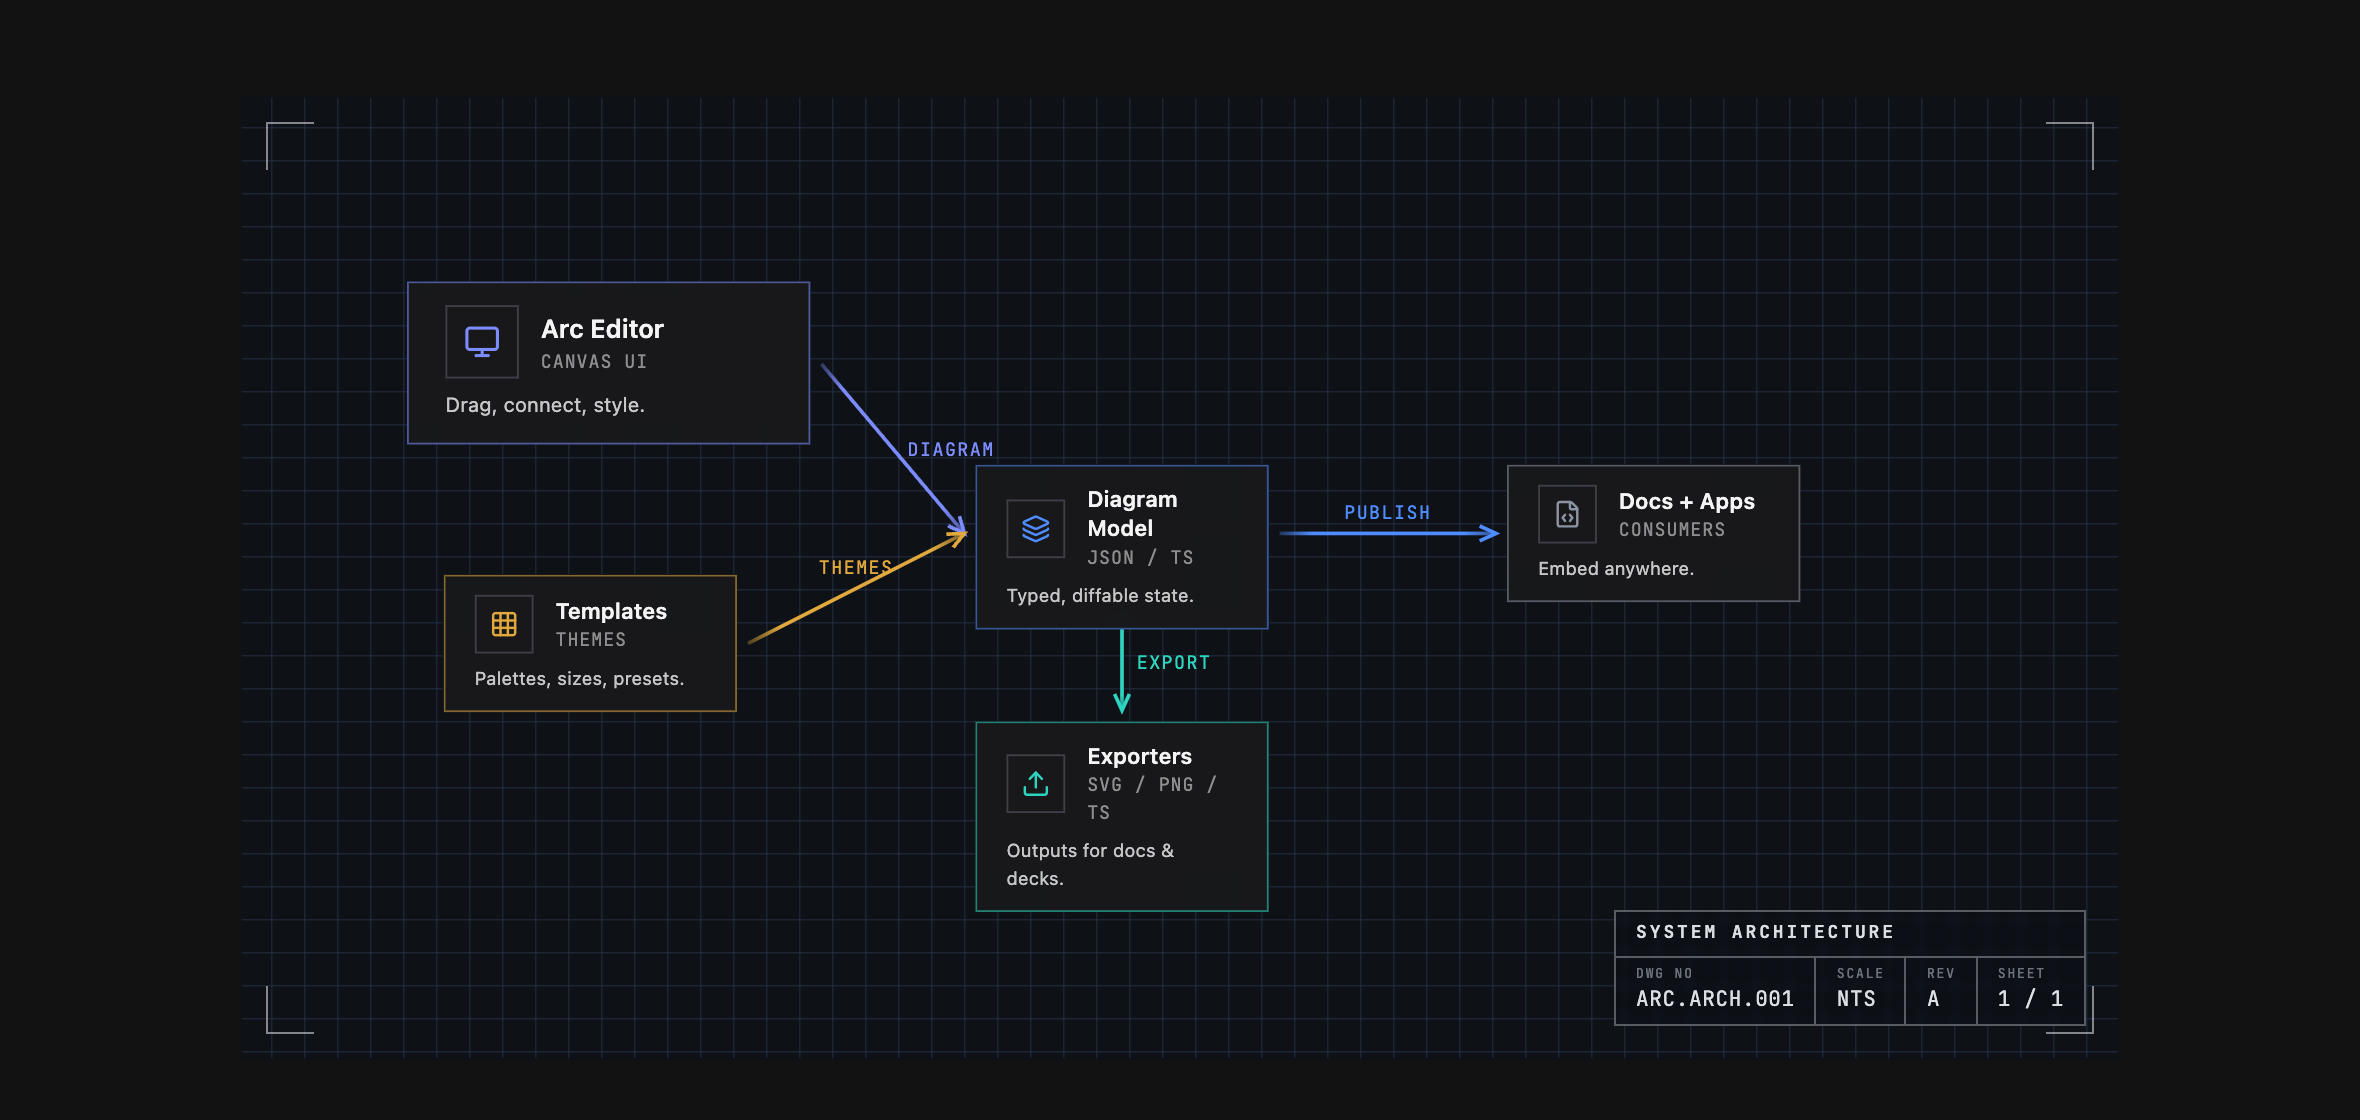
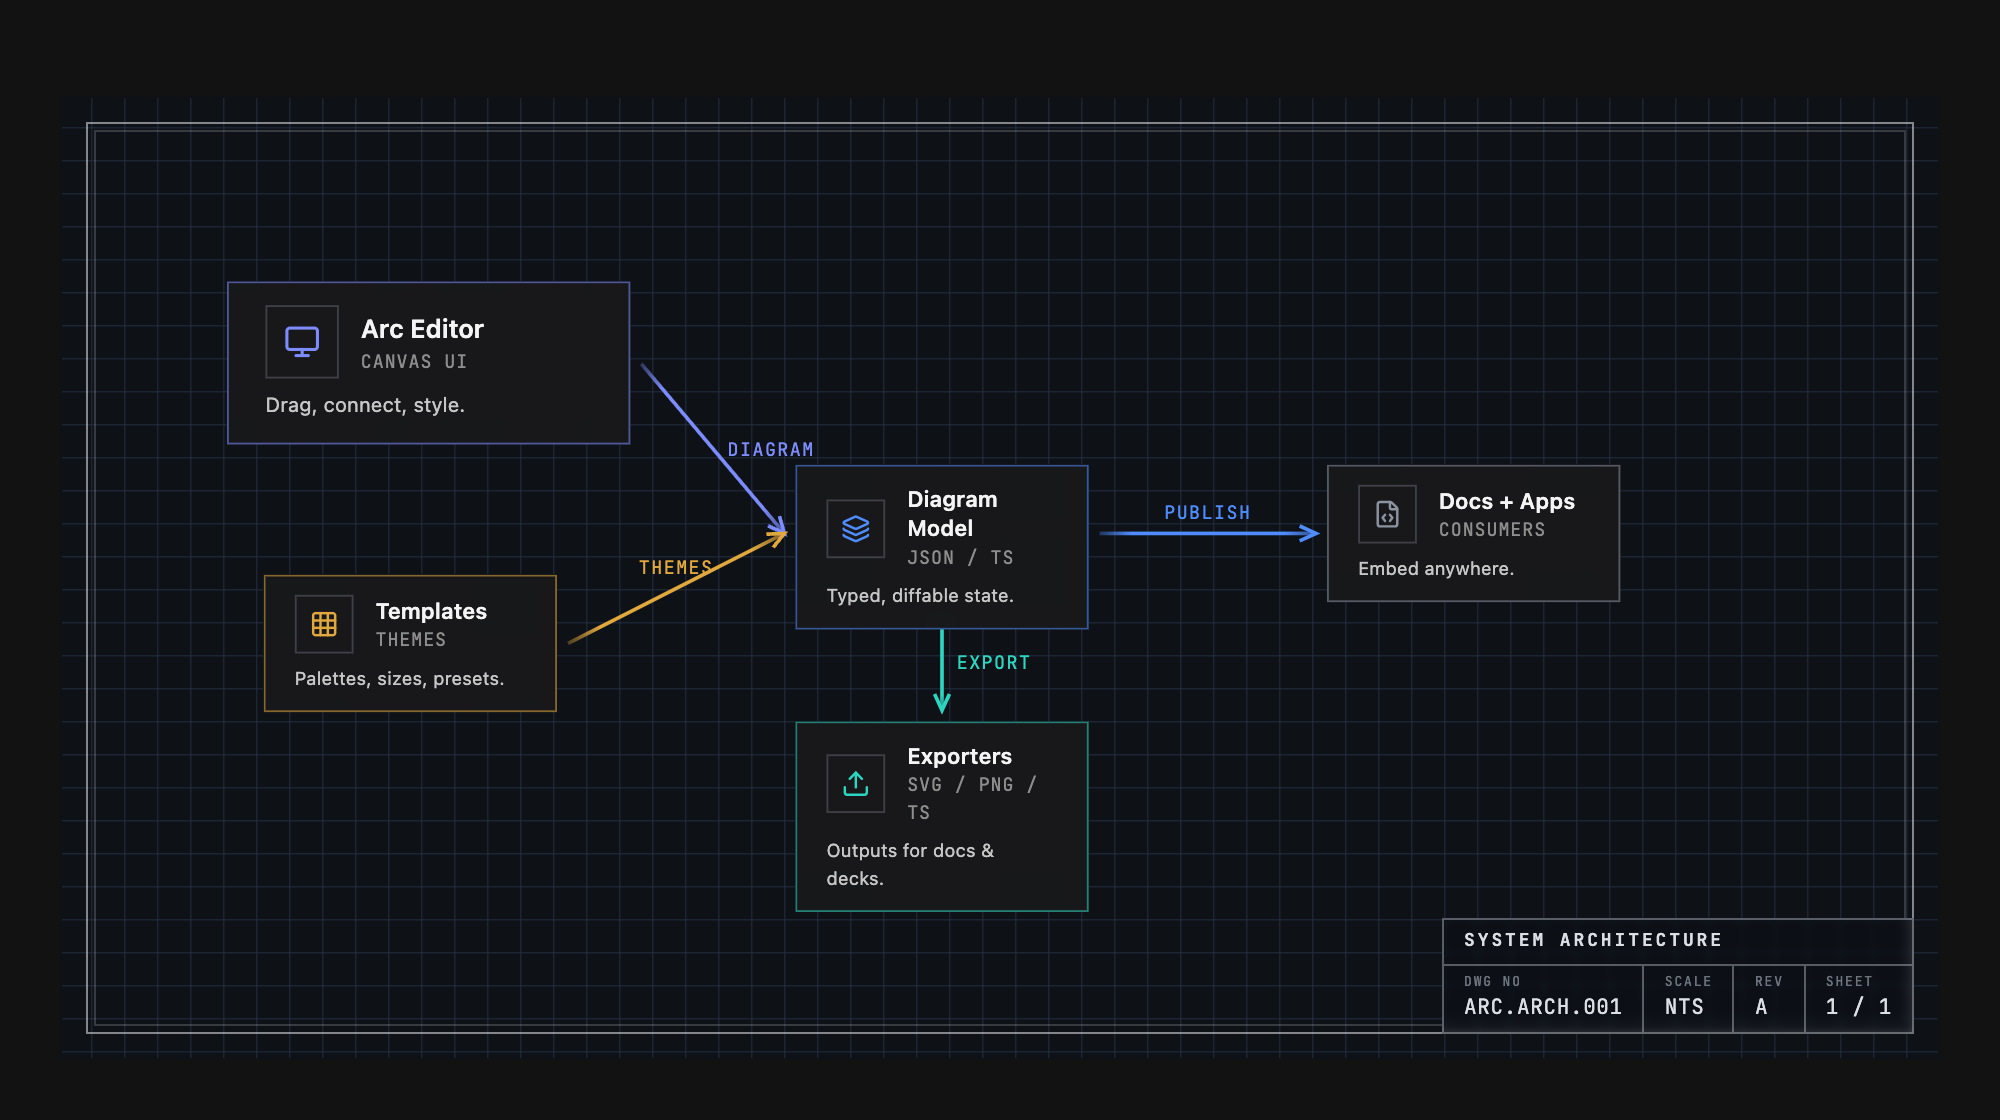
🎨 Add 'sheet' frame variant; Engineering theme uses drafting-sheet border
- themes.ts: new 'sheet' frame; engineering switches corners → sheet
- ArcDiagram: render the double-line drafting-sheet border (FRAME_INSET)
- Contract/docs: list 'sheet' in config dtsPropsFor + README props; refresh screenshots

diff --git a/src/components/ArcDiagram.tsx b/src/components/ArcDiagram.tsx
@@ -700,6 +700,18 @@ function DiagramFrame({ variant, color }: { variant: NonNullable<BrandSpec['fram
     )
   }
 
+  if (variant === 'sheet') {
+    // Full drafting-sheet border: a crisp rectangle inset from the edge, with a
+    // faint inner rule a few px inside for the classic double-line drawing border.
+    // Everything reads as framed on a sheet, with the title block seated in a corner.
+    return (
+      <div className="absolute pointer-events-none z-[6]" style={{ inset: m }}>
+        <div className="absolute inset-0" style={{ border: `1px solid ${color}` }} />
+        <div className="absolute" style={{ inset: 4, border: `1px solid ${color}`, opacity: 0.35 }} />
+      </div>
+    )
+  }
+
   if (variant === 'cropmarks') {
     // Classic open-corner trim marks: a short tick on each edge near each corner,
     // leaving the corner itself open. Symmetric and pinned to the edges.
@@ -754,7 +766,7 @@ function TitleBlock({ info, mode, mono, bottom = 16 }: { info: Required<TitleBlo
     <div
       className="absolute z-10 pointer-events-none"
       style={{
-        right: 16, bottom, fontFamily: font,
+        right: FRAME_INSET, bottom, fontFamily: font,
         border: `1px solid ${line}`,
         background: isLight ? 'rgba(255,255,255,0.55)' : 'rgba(10,14,20,0.5)',
         backdropFilter: 'blur(2px)',
@@ -1092,7 +1104,7 @@ export default function ArcDiagram({
         <TitleBlock
           mode={mode}
           mono={brand.monoFamily}
-          bottom={zoomShown ? 48 : 16}
+          bottom={zoomShown ? 48 : FRAME_INSET}
           info={{
             title: titleBlock?.title ?? 'System Architecture',
             drawing: titleBlock?.drawing ?? displayLabel ?? '—',

diff --git a/src/utils/themes.ts b/src/utils/themes.ts
@@ -43,7 +43,7 @@ export interface BrandSpec {
   /** Background grid system. */
   gridType?: 'dots' | 'lines' | 'crosshair' | 'none'
   /** Edge/frame treatment at the diagram boundary. */
-  frame?: 'hairline' | 'inset' | 'brackets' | 'ticks' | 'cropmarks' | 'corners' | 'none'
+  frame?: 'hairline' | 'inset' | 'brackets' | 'ticks' | 'cropmarks' | 'corners' | 'sheet' | 'none'
   /** Render an engineering-drawing title block in the bottom-right corner. */
   titleBlock?: boolean
 }
@@ -282,7 +282,7 @@ const engineeringTheme: Theme = {
     upperLabels: true,
     arrowhead: 'chevron',
     gridType: 'lines',
-    frame: 'corners',
+    frame: 'sheet',
     titleBlock: true,
   },
 }

diff --git a/README.md b/README.md
@@ -60,7 +60,7 @@ out of the box.
 | `data` | `ArcDiagramData` | The diagram config (required) — see [Example Output](#example-output). |
 | `theme` | `'default' \| 'warm' \| 'cool' \| 'mono' \| 'engineering' \| 'workbench' \| 'tactical'` | Palette + drafting grammar (grid, frame, type). |
 | `mode` | `'light' \| 'dark'` | Appearance. |
-| `frame` | `'hairline' \| 'inset' \| 'brackets' \| 'ticks' \| 'cropmarks' \| 'corners' \| 'none'` | Override the theme's edge treatment. |
+| `frame` | `'hairline' \| 'inset' \| 'brackets' \| 'ticks' \| 'cropmarks' \| 'corners' \| 'sheet' \| 'none'` | Override the theme's edge treatment. |
 | `interactive` | `boolean` | Pan/zoom controls. |
 | `defaultZoom` | `number \| 'fit'` | Initial zoom, or `'fit'` to auto-fit (`maxFitZoom` caps it). |
 | `showControls` / `showMinimap` | `boolean` | Zoom controls / minimap for read-only chrome. |
@@ -103,7 +103,7 @@ Arc's own architecture rendered three ways:
 <div align="center">
   <img src="public/theme-engineering.png" alt="Arc's architecture in the Engineering theme" width="840" />
   <br/>
-  <sub><strong>Engineering</strong> — graph grid, framed corners, drawing title block, uppercase mono</sub>
+  <sub><strong>Engineering</strong> — graph grid, drawing-sheet border, title block, uppercase mono</sub>
   <br/><br/>
   <img src="public/theme-workbench.png" alt="Arc's architecture in the Workbench theme" width="840" />
   <br/>
